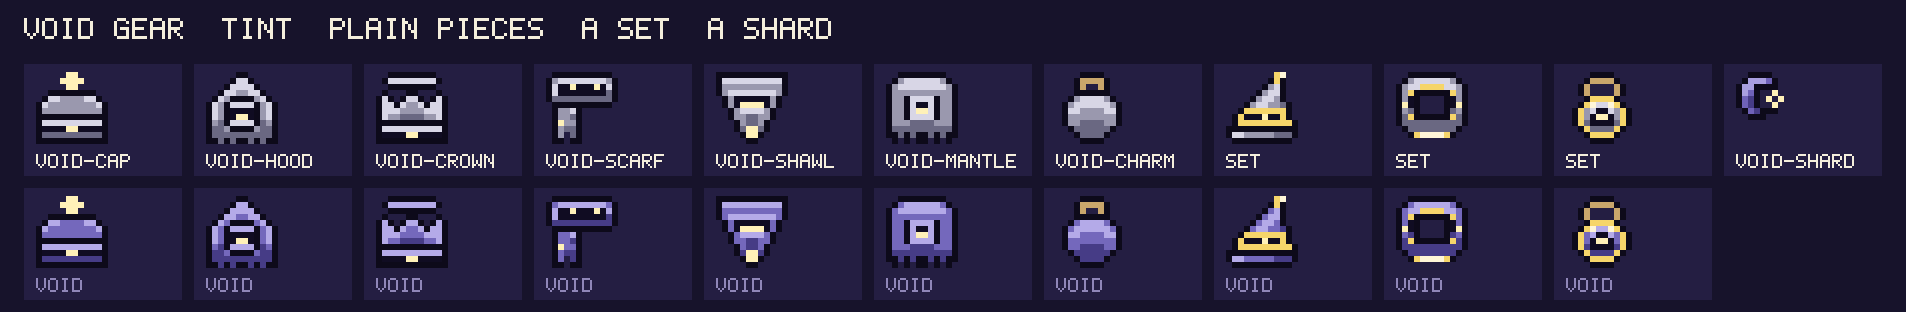
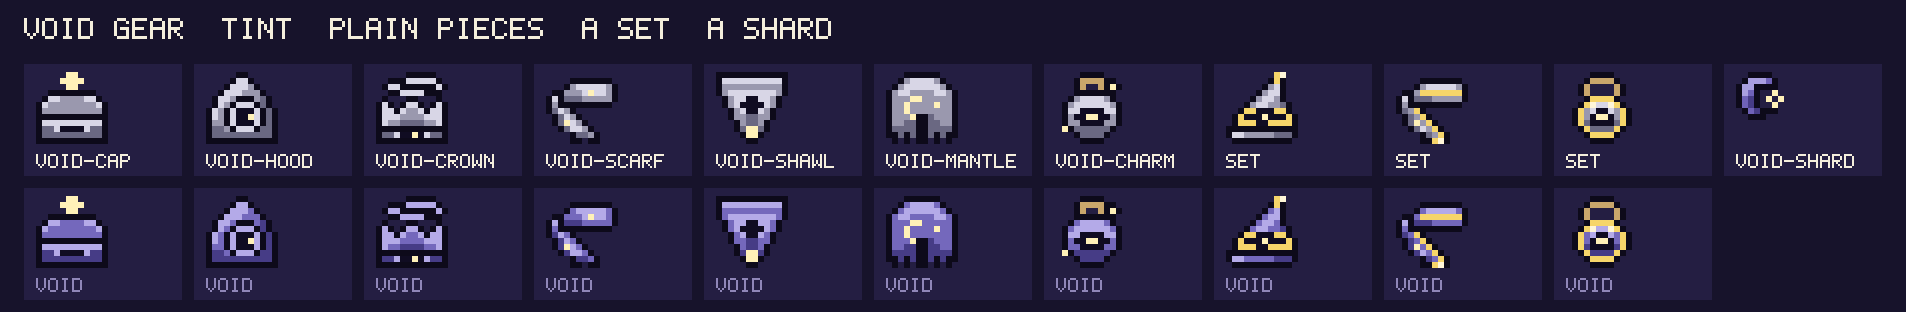
Void gear: rounded windows, wound scarves, tilted crown ring, flaired charm as main
Claude-Session: https://claude.ai/code/session_01TqJ8tUAM4Muj4eb7wE4uc8

diff --git a/apps/activity/src/sprites/concepts/void-gear.ts b/apps/activity/src/sprites/concepts/void-gear.ts
@@ -86,7 +86,7 @@ export const VOID_GEAR_CONCEPTS: ConceptSet = {
           'kttttt',
           'kkkkkk',
           'khhhhh',
-          'knnnny',
+          'kuuhnn',
           'kuuuuu',
           'kkkkkk',
         ],
@@ -95,68 +95,66 @@ export const VOID_GEAR_CONCEPTS: ConceptSet = {
     },
     'void-hood': {
       kind: 'item',
-      note: 'Gloaming Hood: a deep pointed hood whose face opening is a window of night with one star in it.',
+      note: 'Gloaming Hood: a pointed cloth hood; inside it shows a round window of night with one star.',
       sprite: {
-        mirror: true,
         palette: BASE,
         rows: [
-          '.....k',
-          '....kh',
-          '...khh',
-          '..khht',
-          '.khtkk',
-          'khtkhh',
-          'khtknn',
-          'khtkny',
-          'ktukhh',
-          'kuutkk',
-          'kuuuuu',
-          'kkukuk',
+          '.....kk.....',
+          '....khhk....',
+          '...khhhtk...',
+          '..khhhtttk..',
+          '.khhtkkktuk.',
+          '.khtkhhhkuk.',
+          'khtkhnnnhkuk',
+          'khtkhnnyhkuk',
+          'kttkhnnnhkuk',
+          'kuutkhhhkuuk',
+          'kuuuuuuuuuuk',
+          'kkkkkkkkkkkk',
         ],
       },
       alts: ALTS,
     },
     'void-crown': {
       kind: 'item',
-      note: "Stargazer's Crown: a three-point crown with a ring in orbit above it and a star in its window.",
+      note: "Stargazer's Crown: a three-point crown with a tilted ring in orbit around its tips and a star in its window.",
       sprite: {
-        mirror: true,
         palette: BASE,
         rows: [
-          '..kkkk',
-          '.khhhh',
-          '..kkkk',
-          '.k...k',
-          'khk.kh',
-          'khhkht',
-          'khhhtt',
-          'khttuu',
-          'kkkkkk',
-          'khhhhh',
-          'knnnny',
-          'kkkkkk',
+          '.....kkkkk..',
+          '..kkkhhhhhk.',
+          '.khhkkkkkkhk',
+          '..kkhhhhkkk.',
+          '.k...kk...k.',
+          'khk.khhk.khk',
+          'khhkhtthkhhk',
+          'khhhtttthhhk',
+          'khttuuuutthk',
+          'kkkkkkkkkkkk',
+          'kuuhnnynhuuk',
+          'kkkkkkkkkkkk',
         ],
       },
       alts: ALTS,
     },
     'void-scarf': {
       kind: 'item',
-      note: 'Twilight Scarf: a wound band of starry window, one tail (the notch in it is too small to read as a crescent).',
+      note: 'Twilight Scarf: a soft wound scarf with a star on the band and one long tail, notched at the end.',
       sprite: {
-        palette: BASE,
+        palette: { k: BASE.k, t: BASE.t, u: BASE.u, h: BASE.h, y: BASE.y },
         rows: [
-          '.kkkkkkkkkk.',
-          'kthhhhhhhhtk',
-          'khnnynnnynhk',
-          'khnnnnnnnnuk',
-          'kuuuuuuuuuuk',
-          '.kkkkkkkkkk.',
-          '.ktthk......',
-          '.kttuk......',
-          '.kyttk......',
-          '.ktuuk......',
-          '.kt.uk......',
-          '.kk.kk......',
+          '............',
+          '....kkkkkkk.',
+          '...kthhhhhtk',
+          '.kkttthyhhtk',
+          'khkuuutttttk',
+          'ktkkkkkkkkk.',
+          'kuhtk.......',
+          '.kuhtk......',
+          '.kuyhtk.....',
+          '..kuhhtk....',
+          '....kuutk...',
+          '....kk.kk...',
         ],
       },
       alts: ALTS,
@@ -172,9 +170,9 @@ export const VOID_GEAR_CONCEPTS: ConceptSet = {
           'khhhhh',
           'kttttt',
           'kthhhh',
-          '.ktnnn',
-          '.ktnyy',
-          '..kthh',
+          '.kthhn',
+          '.kthnn',
+          '..kthn',
           '..kttu',
           '...ktu',
           '...kuy',
@@ -186,32 +184,31 @@ export const VOID_GEAR_CONCEPTS: ConceptSet = {
     },
     'void-mantle': {
       kind: 'item',
-      note: "Stargazer's Mantle: a high collar, a ring clasp holding a starry window, and a hem of crescents.",
+      note: "Stargazer's Mantle: sloping shoulders, a collar, a crescent clasp, a front seam and a scalloped hem.",
       sprite: {
-        mirror: true,
-        palette: BASE,
+        palette: { k: BASE.k, t: BASE.t, u: BASE.u, h: BASE.h, y: BASE.y },
         rows: [
-          '..kkkk',
-          '.kthhh',
-          'kthhhh',
-          'kttttt',
-          'kttkhh',
-          'kttkhn',
-          'kttkhy',
-          'kttkhh',
-          'ktttuu',
-          'kuuuuu',
-          'kkukuk',
-          '.k.k.k',
+          '...kkkkkk...',
+          '..kthhhhtk..',
+          '.kthhhhhhtk.',
+          'kthhtttthhtk',
+          'ktttyytttttk',
+          'kttyttttyttk',
+          'kttytttttttk',
+          'ktttykkutttk',
+          'kttuukkuuttk',
+          'kuuuukkuuuuk',
+          'kkukukkukukk',
+          '.k.k.kk.k.k.',
         ],
       },
       alts: ALTS,
     },
     'void-charm': {
       kind: 'item',
-      note: 'Starwell Charm: the shared trail-charm. The variant is the same stone with the Void flair: a window with a star, and a glint.',
-      sprite: TRAIL_CHARM,
-      variants: { 'Void flair': flaired(TRAIL_CHARM, VOID_CHARM_FLAIR) },
+      note: 'Starwell Charm: the shared trail-charm with a Void flair (a window with a star, and a glint); the variant is the plain shipped stone.',
+      sprite: flaired(TRAIL_CHARM, VOID_CHARM_FLAIR),
+      variants: { 'plain stone (shipped trail-charm)': TRAIL_CHARM },
       alts: ALTS,
     },
     'void-set-hat': {
@@ -227,9 +224,9 @@ export const VOID_GEAR_CONCEPTS: ConceptSet = {
           '.....kthhk..',
           '....kthhtk..',
           '...kthhttuk.',
-          '..kgggggggk.',
-          '.kgnnnynngk.',
-          '.kgggggggggk',
+          '..kggnnnggk.',
+          '.kgnnnynnngk',
+          '.kgggnnggggk',
           'kkkkkkkkkkkk',
           'khhtttttuuuk',
           '.kkkkkkkkkk.',
@@ -240,23 +237,22 @@ export const VOID_GEAR_CONCEPTS: ConceptSet = {
     'void-set-scarf': {
       kind: 'item',
       role: 'set',
-      note: "Starkeeper's Loop: a scarf wound in a loop like an orbit, gold edges, a star in its side.",
+      note: "Starkeeper's Loop: a gold-striped wound scarf with a long tail, a star on it and a gold tassel.",
       sprite: {
-        mirror: true,
-        palette: SET,
+        palette: { k: SET.k, t: SET.t, u: SET.u, h: SET.h, y: SET.y, g: SET.g, w: SET.w },
         rows: [
-          '..kkkk',
-          '.kthhh',
-          'kthhgg',
-          'ktgkkk',
-          'ktnk..',
-          'kynk..',
-          'ktuk..',
-          'kugkkk',
-          'kuuuuu',
-          '.kuuuu',
-          '..kgww',
-          '......',
+          '............',
+          '....kkkkkkk.',
+          '...kthhhhhtk',
+          '.kktgggggggk',
+          'khkuuutttttk',
+          'ktkkkkkkkkk.',
+          'kutgk.......',
+          '.kutgk......',
+          '.kuytgk.....',
+          '..kuhtgk....',
+          '....kutgk...',
+          '....kkgwk...',
         ],
       },
       alts: ALTS,

diff --git a/apps/activity/src/sprites/concepts/index.ts b/apps/activity/src/sprites/concepts/index.ts
@@ -9,11 +9,8 @@
 import type { SpriteDef } from '../sprite-data';
 import type { ArtKind } from '../sprite-lint';
 import { VOID_CONCEPTS } from './void';
-<<<<<<< HEAD
-import { VOID_GEAR_CONCEPTS } from './void-gear';
-=======
 import { VOID_FOES_CONCEPTS } from './void-foes';
->>>>>>> origin/claude/void-art
+import { VOID_GEAR_CONCEPTS } from './void-gear';
 
 export interface Concept {
   kind: ArtKind;
@@ -50,8 +47,8 @@ export interface ConceptSet {
   sprites: Readonly<Record<string, Concept>>;
 }
 
-<<<<<<< HEAD
-export const CONCEPT_SETS: readonly ConceptSet[] = [VOID_CONCEPTS, VOID_GEAR_CONCEPTS];
-=======
-export const CONCEPT_SETS: readonly ConceptSet[] = [VOID_CONCEPTS, VOID_FOES_CONCEPTS];
->>>>>>> origin/claude/void-art
+export const CONCEPT_SETS: readonly ConceptSet[] = [
+  VOID_CONCEPTS,
+  VOID_FOES_CONCEPTS,
+  VOID_GEAR_CONCEPTS,
+];

diff --git a/docs/compendium/items.md b/docs/compendium/items.md
@@ -257,18 +257,18 @@ Festival gear is epic-power with a look of its own, and it has no extra power ov
 
 Concept art only: nothing here is in `gear.json`, `gear-sets.json` or the part kinds, and every name and line below is `(compendium detail, not shipped)` and may change. The sprites are in `apps/activity/src/sprites/concepts/void-gear.ts` (`pnpm art void-gear`). Void gear follows the shape of the other elements: a Hat and a Scarf at three makes (item levels 1, 5 and 10), a plain Charm, one gear set and one shard. Void's tint is the dusk purple of the Void creatures (see `world.md`, "Void"); every piece that carries a window has a lighter edge around it. "Rolls" says which kind of lines the piece would lean to, in words, the way the other elements' pieces do.
 
-| Name               | Slot  | Looks like                                                                         | Flavour                                                                     | Rolls                                                                              |
-| ------------------ | ----- | ---------------------------------------------------------------------------------- | --------------------------------------------------------------------------- | ---------------------------------------------------------------------------------- |
-| Dusk Cap           | Hat   | A round cap with a star on a stalk and a band of starry window.                    | "Pulled on at the end of the day, and the first star is already on it."     | A plain Hat: a little Attack and HP, as the other first makes.                     |
-| Gloaming Hood      | Hat   | A deep pointed hood whose face opening is a window of night with one star.         | "Whoever wears it looks out of a small piece of the evening."               | A better Hat: more Attack and HP, and a chance of crit chance.                     |
-| Stargazer's Crown  | Hat   | A three-point crown with a ring in orbit above it, a starry window in its band.    | "The ring above it never touches it, and never drifts off either."          | A fine Hat: the most Attack and HP of the three, crit chance, perhaps crit damage. |
-| Twilight Scarf     | Scarf | A wound band of starry window with one long tail, notched like a crescent.         | "Knitted in the hour when the colours go out, and only the stars are left." | A plain Scarf: leans to HP, with a little Attack.                                  |
-| Nightfall Shawl    | Scarf | A triangle of cloth hanging to a point, a window across the chest.                 | "It falls over the shoulders the way the dark falls over a field."          | A better Scarf: more HP, a little Attack.                                          |
-| Stargazer's Mantle | Scarf | A high collar, a ring clasp holding a starry window, a hem of crescents.           | "Fastened with a ring, so the night does not slip off in the wind."         | A fine Scarf: the most HP, some Attack, perhaps crit chance.                       |
-| Starwell Charm     | Charm | The shared Trail Charm stone with a Void flair: a window with a star, and a glint. | "A pebble with a well in it, and a star at the bottom."                     | Void Attunement, like the other elements' plain Charms.                            |
-| Starkeeper's Hat   | Hat   | A tall pointed hat with a gold star at the tip and a gold band round a window.     | "Kept by whoever stays up to count the stars, so none of them are missed."  | Set Hat: Hat lines, as the other set Hats.                                         |
-| Starkeeper's Loop  | Scarf | A scarf wound in a loop like an orbit, gold edges, a star in its side.             | "A scarf with no ends, so there is always somewhere left to go round."      | Set Scarf: Scarf lines, as the other set Scarves.                                  |
-| Starkeeper's Lens  | Charm | A gold ring on a cord with a starry window inside, like a lens held to the sky.    | "Hold it up to the dark and a star comes into focus."                       | Set Charm: Void Attunement, as the other set Charms.                               |
+| Name               | Slot  | Looks like                                                                                                | Flavour                                                                     | Rolls                                                                              |
+| ------------------ | ----- | --------------------------------------------------------------------------------------------------------- | --------------------------------------------------------------------------- | ---------------------------------------------------------------------------------- |
+| Dusk Cap           | Hat   | A round cap with a star on a stalk and a rounded window on the cuff.                                      | "Pulled on at the end of the day, and the first star is already on it."     | A plain Hat: a little Attack and HP, as the other first makes.                     |
+| Gloaming Hood      | Hat   | A pointed cloth hood; inside it shows a round window of night with one star.                              | "Whoever wears it looks out of a small piece of the evening."               | A better Hat: more Attack and HP, and a chance of crit chance.                     |
+| Stargazer's Crown  | Hat   | A three-point crown inside a tilted ring in orbit, a rounded window on its band.                          | "The ring above it never touches it, and never drifts off either."          | A fine Hat: the most Attack and HP of the three, crit chance, perhaps crit damage. |
+| Twilight Scarf     | Scarf | A soft wound scarf with one star on the band and a long tail hanging to a notched end.                    | "Knitted in the hour when the colours go out, and only the stars are left." | A plain Scarf: leans to HP, with a little Attack.                                  |
+| Nightfall Shawl    | Scarf | A triangle of cloth hanging to a star-tipped point, a rounded window on the chest.                        | "It falls over the shoulders the way the dark falls over a field."          | A better Scarf: more HP, a little Attack.                                          |
+| Stargazer's Mantle | Scarf | A cloak with sloping shoulders and a collar, a crescent clasp with a star beside it, and a scalloped hem. | "Fastened with a ring, so the night does not slip off in the wind."         | A fine Scarf: the most HP, some Attack, perhaps crit chance.                       |
+| Starwell Charm     | Charm | The shared Trail Charm stone with a Void flair: a rounded window, a star and a glint.                     | "A pebble with a well in it, and a star at the bottom."                     | Void Attunement, like the other elements' plain Charms.                            |
+| Starkeeper's Hat   | Hat   | A tall pointed hat with a gold star at the tip and a gold band round a rounded window.                    | "Kept by whoever stays up to count the stars, so none of them are missed."  | Set Hat: Hat lines, as the other set Hats.                                         |
+| Starkeeper's Loop  | Scarf | A gold-striped scarf wound round and hanging in a long tail that ends in a gold tassel.                   | "A scarf with no ends, so there is always somewhere left to go round."      | Set Scarf: Scarf lines, as the other set Scarves.                                  |
+| Starkeeper's Lens  | Charm | A gold ring on a cord with a starry window inside, like a lens held to the sky.                           | "Hold it up to the dark and a star comes into focus."                       | Set Charm: Void Attunement, as the other set Charms.                               |
 
 **The set, Starkeeper's Vigil** (working name; tag Void, no role). Flavour: "For the ones who keep the long watch, and count the stars twice." Two pieces would give a small bonus to Void reactions, as the element sets do; three would give a named effect. Both are for Misa to design with the Void element; none is drawn from numbers.
 

diff --git a/docs/art/README.md b/docs/art/README.md
@@ -10,6 +10,7 @@ Status: **liked** means Misa approved the look; **draft** means he has not said 
 | --- | --- | --- | --- |
 | [Void creatures, two stages](#void) | liked | 8 | 2026-10-30: imagine the Void element on creatures; four creatures, one per role, no names or stats. |
 | [Void, a raid boss, three foes and two floor bosses](#void-foes) | draft | 6 | 2026-10-31: a Void raid boss, dungeon foes and dungeon bosses. |
+| [Void gear: tint, plain pieces, a set, a shard](#void-gear) | draft | 11 | 2026-10-31: design Void gear. |
 
 <a id="void"></a>
 
@@ -59,3 +60,32 @@ Status: **liked** means Misa approved the look; **draft** means he has not said 
 | `void-crab` | foe |  | draft | Drift Crab: a low round shell with a window and two big claws; it tucks in and hides. |
 | `void-floor-jelly` | boss |  | draft | Lantern Drifter: a floating bell with a starry window, two glinting eyes and trailing tendrils tipped with stars. |
 | `void-floor-sentinel` | boss |  | draft | Dim Sentinel: a tall standing stone with a doorway of night in its belly, glinting eyes and two shards orbiting it. |
+
+<a id="void-gear"></a>
+
+## Void gear: tint, plain pieces, a set, a shard
+
+![Void gear: tint, plain pieces, a set, a shard](void-gear.png)
+
+- **Status:** draft
+- **Requested:** 2026-10-31: design Void gear.
+- **Element:** void
+- **Source:** `apps/activity/src/sprites/concepts/void-gear.ts` (draw it with `pnpm art void-gear`)
+- **Sheet of:** `da4d774f7e18`
+- Needs before use: the Void element in the content (an element tag, a Void Hat, Scarf and Charm at three tiers in gear.json, the set in gear-sets.json, a Void shard in the part kinds), the tint in TINTS and SET_TINTS (gear-sprites.ts), names and flavour confirmed, and the charm flair in item-flair.ts.
+- Proposed tint: t #7468bc, u #463c86, h #b4aae8 (the Void creatures, a little lighter so a dark item stands out on the panels).
+- The charm is the shared trail-charm with a Void flair (the variant); every other piece is its own look, as the shipped hats and scarves are.
+
+| Code | Kind | Role | Status | Idea |
+| --- | --- | --- | --- | --- |
+| `void-cap` | item |  | draft | Dusk Cap: a round cap with a star on a stalk and a band of starry window. |
+| `void-hood` | item |  | draft | Gloaming Hood: a pointed cloth hood; inside it shows a round window of night with one star. |
+| `void-crown` | item |  | draft | Stargazer's Crown: a three-point crown with a tilted ring in orbit around its tips and a star in its window. |
+| `void-scarf` | item |  | draft | Twilight Scarf: a soft wound scarf with a star on the band and one long tail, notched at the end. |
+| `void-shawl` | item |  | draft | Nightfall Shawl: a triangle of cloth hanging to a point, a lit window across the chest, a star at the tip. |
+| `void-mantle` | item |  | draft | Stargazer's Mantle: sloping shoulders, a collar, a crescent clasp, a front seam and a scalloped hem. |
+| `void-charm` | item |  | draft | Starwell Charm: the shared trail-charm with a Void flair (a window with a star, and a glint); the variant is the plain shipped stone. |
+| `void-set-hat` | item | set | draft | Starkeeper's Hat: a tall pointed hat with a gold star at the tip and a gold band round a starry window. |
+| `void-set-scarf` | item | set | draft | Starkeeper's Loop: a gold-striped wound scarf with a long tail, a star on it and a gold tassel. |
+| `void-set-charm` | item | set | draft | Starkeeper's Lens: a gold ring, like a lens held up to the sky, with a starry window inside. |
+| `void-shard` | part |  | draft | Void shard: a crescent-shaped crystal with a star caught in its hollow. |
